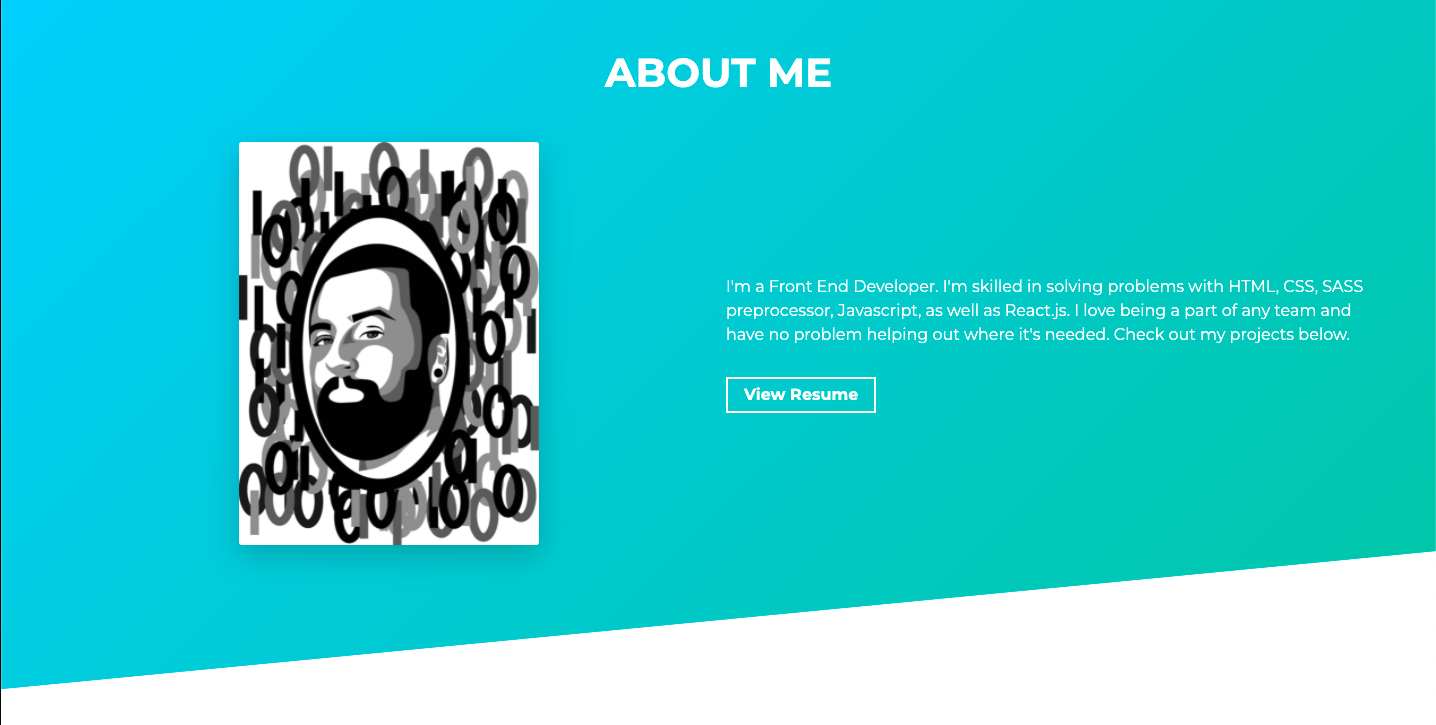
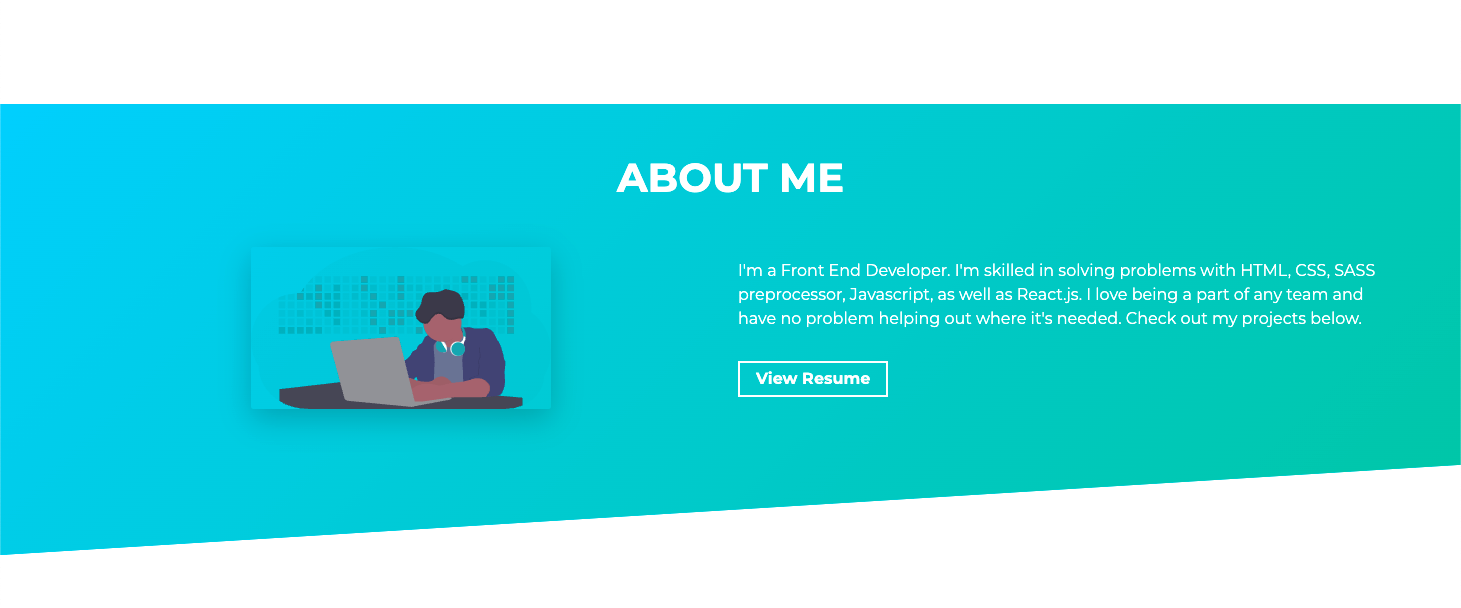
changed photo next to about me section and adjusted readme screenshots

diff --git a/src/index.html b/src/index.html
@@ -37,9 +37,12 @@
     <!-- Todo: put here your site title -->
     <title>Justin Scorzafava | Developer</title>
     <!-- Todo: add some coding keywords below - e.g: (javascript, yourusername, etc) -->
-    <meta name="keywords" content="[username], [name], skill" />
+    <meta
+      name="keywords"
+      content="Justin Scorzafava, Web Developer, Javascript, React, HTML, CSS, Sass"
+    />
     <!-- Todo: improve your SEO by adding a small description of you -->
-    <meta name="description" content="[Your name here] | Developer" />
+    <meta name="description" content="Justin Scorzafava | Developer" />
 
     <link
       rel="stylesheet"
@@ -88,7 +91,7 @@
                 class="img-fluid rounded shadow-lg"
                 height="auto"
                 width="300px"
-                src="assets/profile.jpg"
+                src="assets/profile.svg"
                 alt="Profile Image"
               />
             </div>
